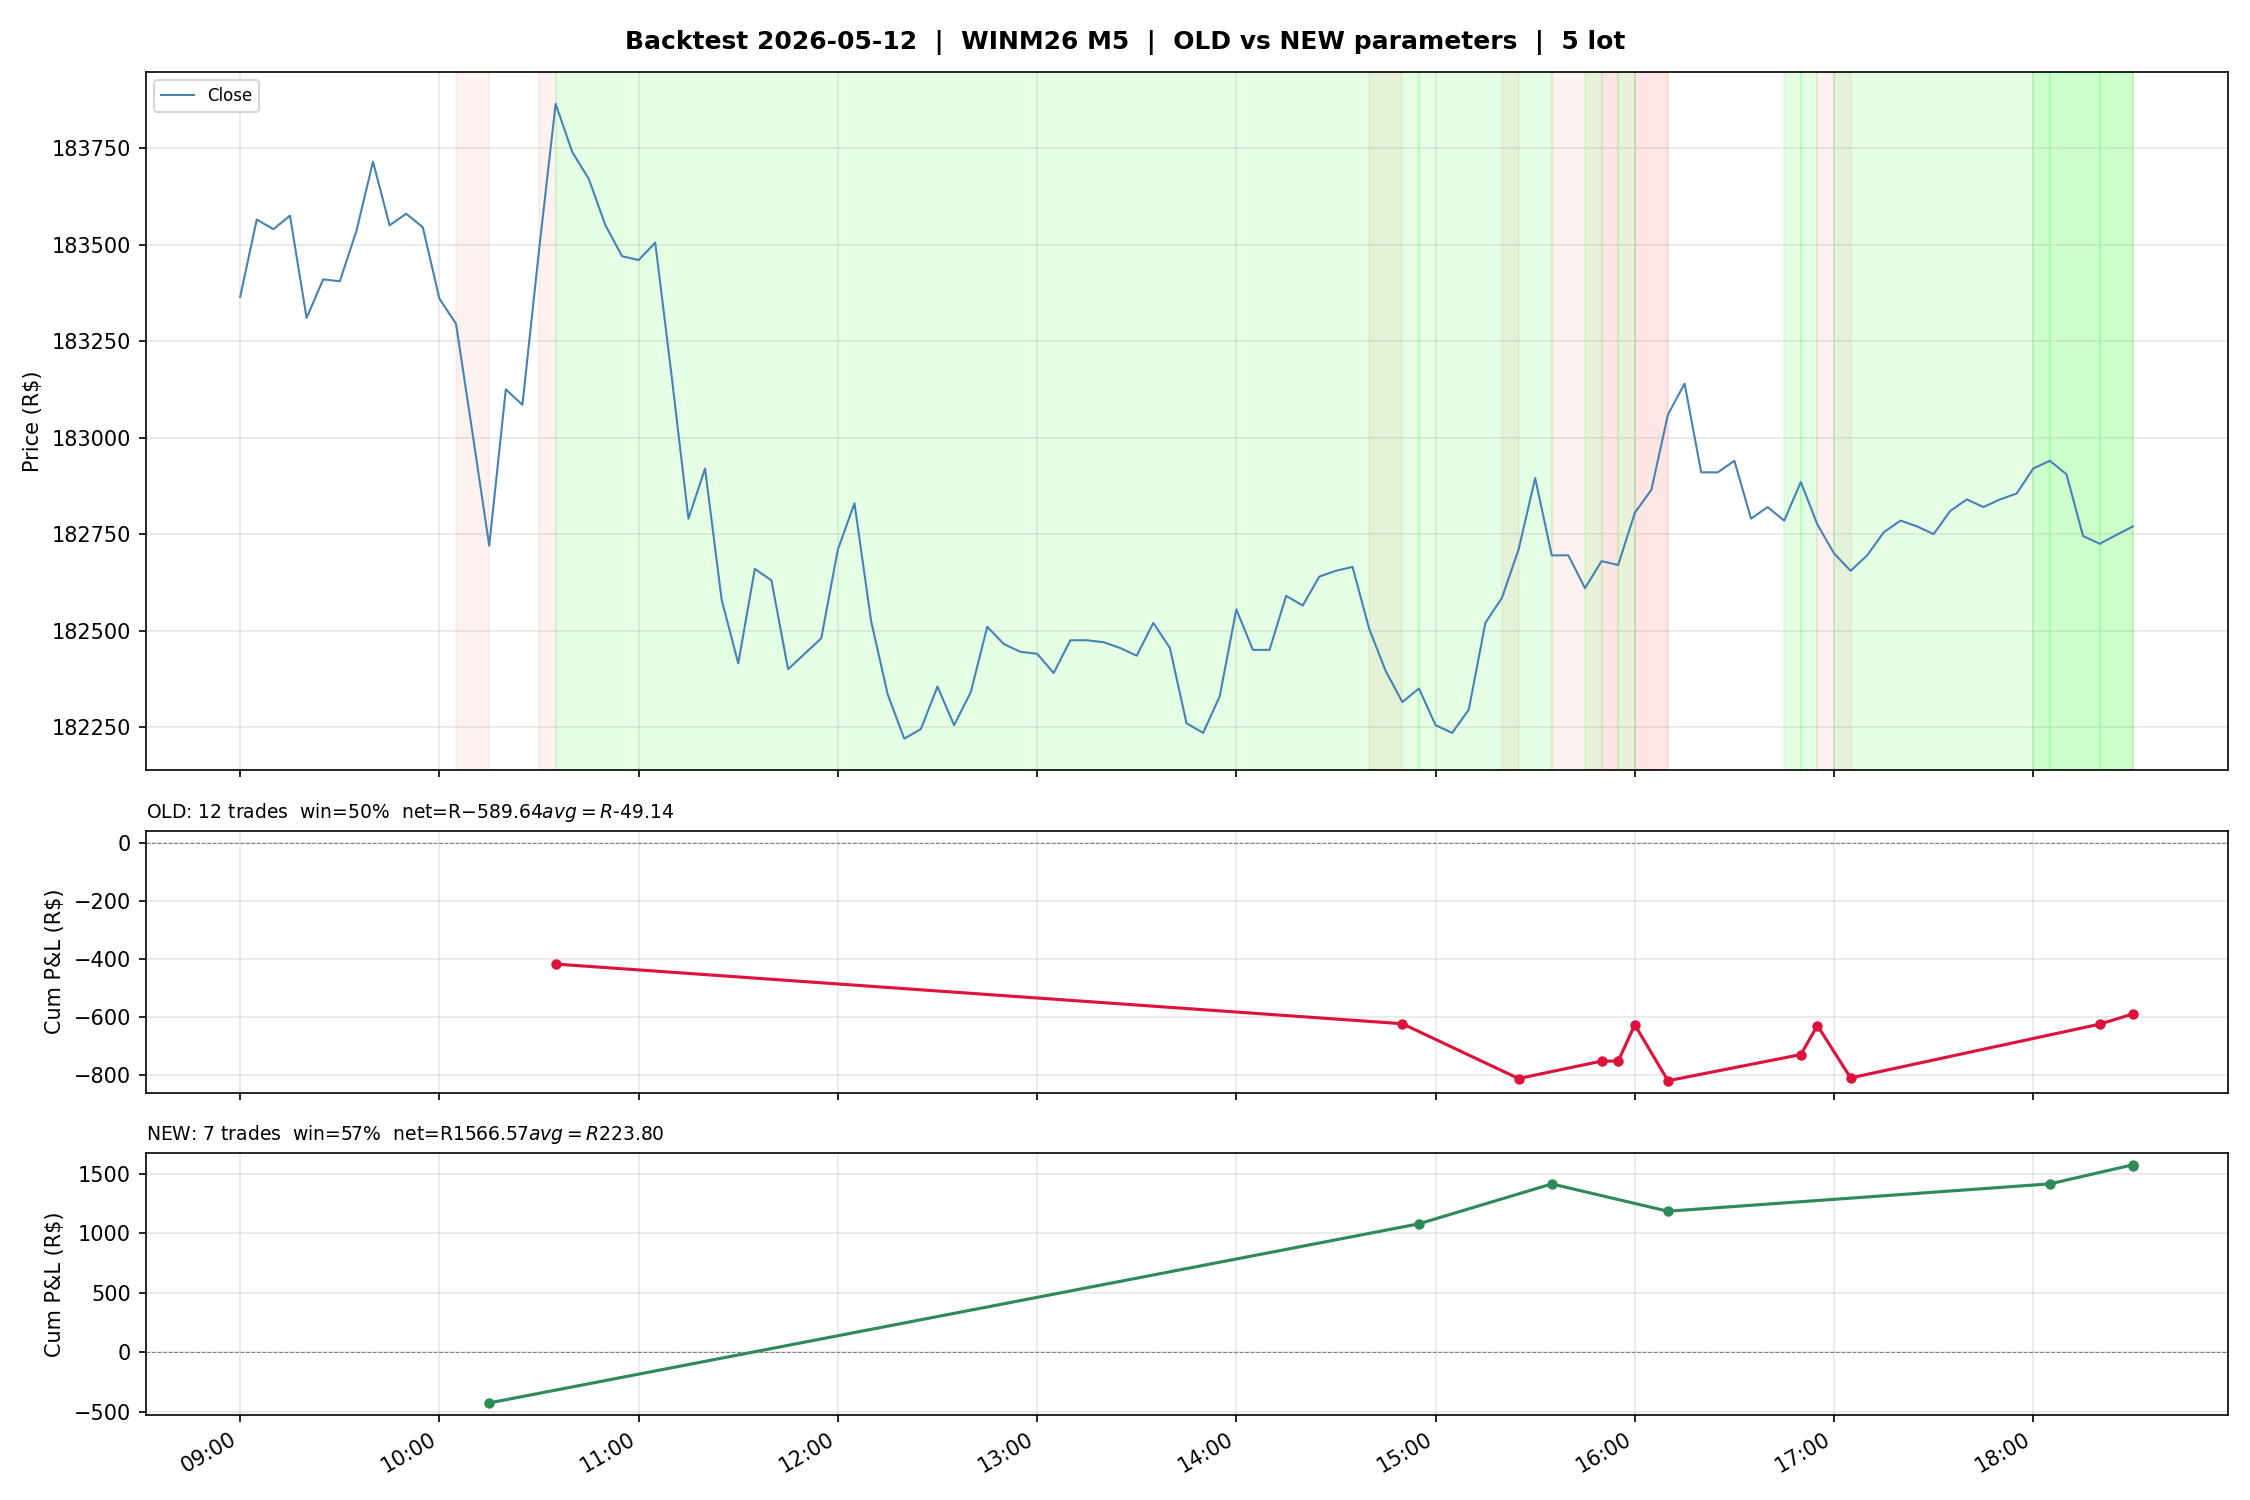
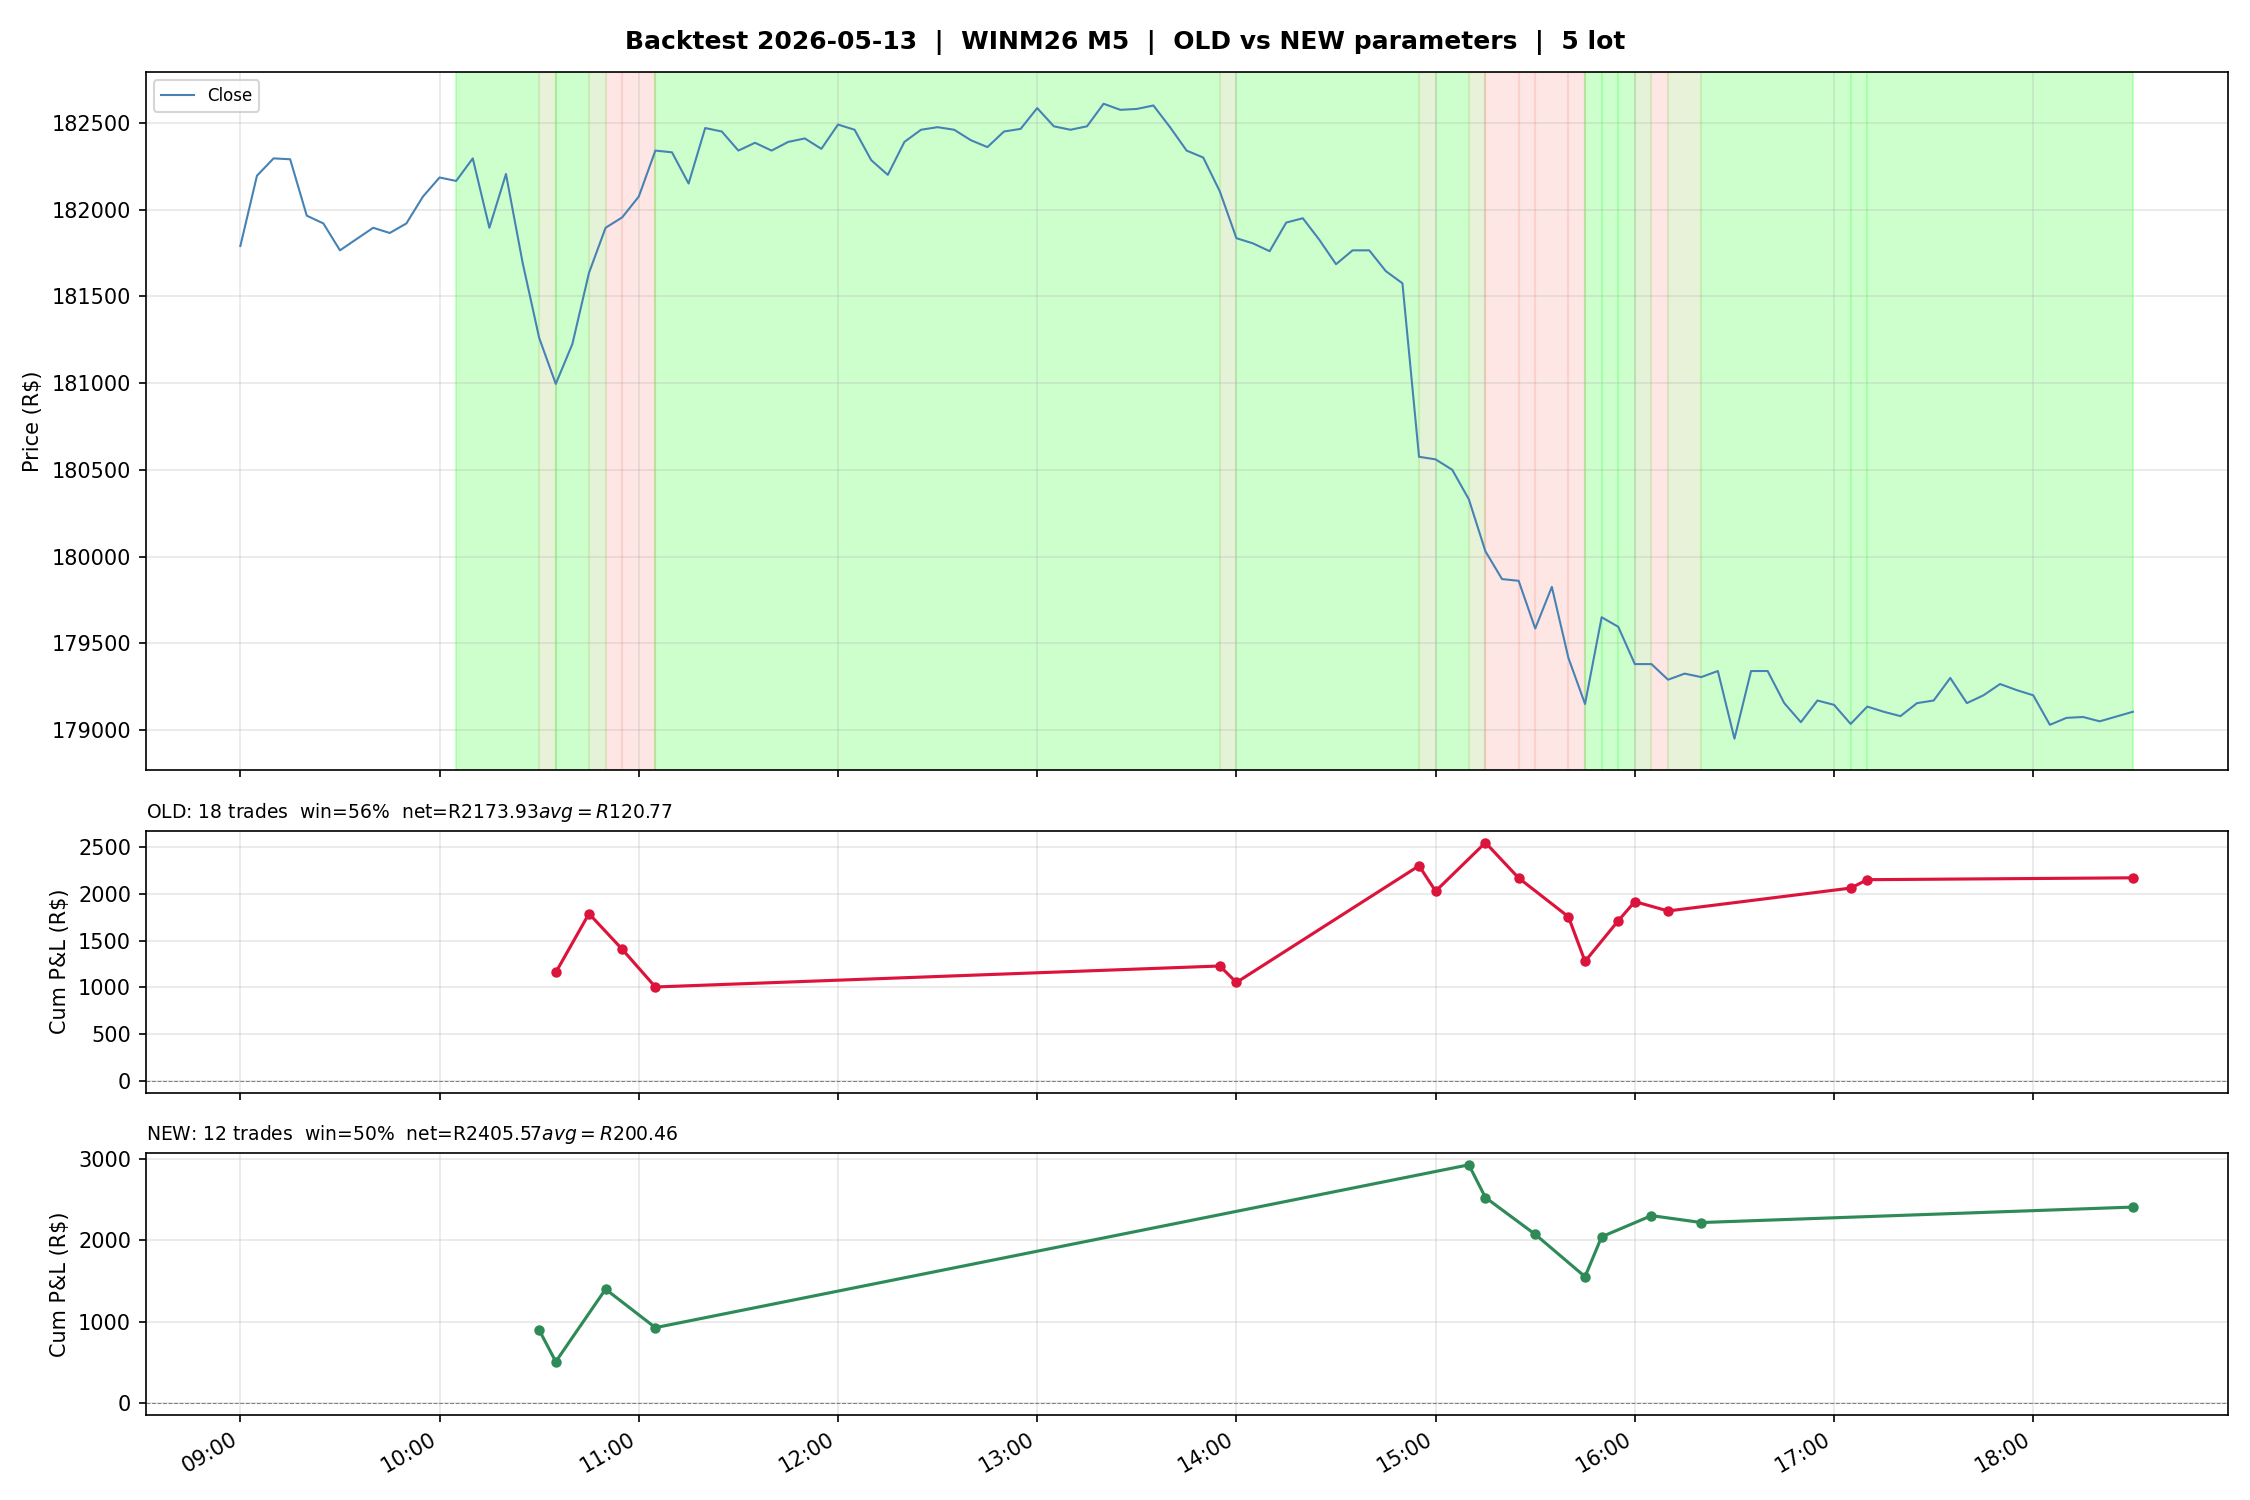
feat: Add diagnostic script for order-triggering parameter comparison

diff --git a/test_signal_status.py b/test_signal_status.py
@@ -1,0 +1,241 @@
+"""
+test_signal_status.py
+─────────────────────
+Prints a diagnostic table comparing every order-triggering parameter
+against its current live value.  Run once; no trades are placed.
+
+Usage:
+    python test_signal_status.py
+"""
+
+from datetime import datetime, timezone, timedelta
+
+import os
+import numpy as np
+import pandas as pd
+import MetaTrader5 as mt5
+from lightgbm import LGBMClassifier
+from sklearn.impute import SimpleImputer
+from sklearn.pipeline import Pipeline
+
+from config import (
+    TARGETS, TIMEFRAME, N_BARS,
+    TB_MAX_BARS, TB_PT_MULT, TB_SL_MULT,
+    PROB_THRESHOLD, N_SPLITS_CV, RECENCY_DECAY,
+    TRADE_ENABLED, TRADE_BOTH_SIDES, TRADE_SESSIONS,
+    RISK_PCT, MAX_SLIPPAGE, MAGIC_NUMBER,
+    TRAIL_ACTIVATE_PCT,
+    GRID_ENABLED, GRID_MAX_LEVELS, GRID_STEP_MULT, GRID_PORTFOLIO_SL_MULT,
+    MIN_MICRO_ROWS,
+)
+from mt5_client import mt5_setup, fetch_bars, append_dom_snapshot, fetch_and_aggregate_ticks
+from features import (
+    _atr, make_features, add_time_features,
+    load_dom_features, load_tick_features, make_htf_features, merge_microstructure,
+)
+from model import (
+    triple_barrier_labels, compute_recency_weights,
+    evaluate_walkforward,
+)
+
+_BRT = timezone(timedelta(hours=-3))
+
+SEP  = "─" * 72
+SEP2 = "═" * 72
+
+def _pass_fail(condition: bool) -> str:
+    return "✓  PASS" if condition else "✗  FAIL"
+
+def _in_session(sessions) -> bool:
+    now = datetime.now(_BRT)
+    hm  = (now.hour, now.minute)
+    for start, end in sessions:
+        if start <= hm < end:
+            return True
+    return False
+
+
+def run_diagnostics(target: dict) -> None:
+    symbol = target["symbol"]
+    slug   = target["slug"]
+
+    print(f"\n{SEP2}")
+    print(f"  SIGNAL DIAGNOSTICS — {symbol}  ({datetime.now(_BRT).strftime('%Y-%m-%d %H:%M:%S')} BRT)")
+    print(SEP2)
+
+    # ── 1. Fetch bars ──────────────────────────────────────────────────────────
+    bars = fetch_bars(symbol, TIMEFRAME, N_BARS)
+    if bars is None:
+        print("  ERROR: could not fetch bars from MT5")
+        return
+    print(f"\n  Bars loaded        : {len(bars)}")
+
+    # ── 2. DOM availability check ──────────────────────────────────────────────
+    from mt5_client import _subscribed_books
+    dom_subscribed = symbol in _subscribed_books
+    dom_snap_live  = mt5.market_book_get(symbol)
+    dom_snap_ok    = dom_snap_live is not None and len(dom_snap_live) > 0
+    print(f"  DOM subscribed     : {dom_subscribed}")
+    print(f"  DOM live snapshot  : {'OK (' + str(len(dom_snap_live)) + ' levels)' if dom_snap_ok else 'NONE — broker may not provide L2 for this symbol'}")
+    if not dom_snap_ok:
+        print("  NOTE: DOM features will be INACTIVE (0 rows). This is normal if the")
+        print("        broker does not publish Level 2 order book for futures (WINM26).")
+
+    # ── 3. Features ────────────────────────────────────────────────────────────
+    append_dom_snapshot(symbol, slug)
+    fetch_and_aggregate_ticks(symbol, slug)
+
+    feats = make_features(bars)
+    feats = add_time_features(feats)
+
+    dom_raw  = load_dom_features(slug)
+    tick_raw = load_tick_features(slug)
+
+    # Pre-merge DOM diagnostics
+    if not dom_raw.empty:
+        dom_bar_count = len(dom_raw)
+        dom_overlap   = len(dom_raw.index.intersection(feats.index))
+        feats_sample  = feats.index[-1]
+        dom_sample    = dom_raw.index[-1] if len(dom_raw) else None
+        print(f"\n  DOM CSV bars       : {dom_bar_count}  (unique M5 bars after groupby)")
+        print(f"  DOM / feats overlap: {dom_overlap} bars")
+        print(f"  feats last bar tz  : {feats_sample}")
+        print(f"  DOM   last bar tz  : {dom_sample}")
+        if dom_overlap == 0:
+            print("  WARNING: no timestamp overlap — timezone or flooring mismatch in DOM CSV")
+
+    if not tick_raw.empty:
+        tick_bar_count = len(tick_raw)
+        tick_overlap   = len(tick_raw.index.intersection(feats.index))
+        print(f"  Tick CSV bars      : {tick_bar_count}  overlap={tick_overlap}")
+
+    feats, n_dom  = merge_microstructure(feats, dom_raw,  prefix="dom")
+    feats, n_tick = merge_microstructure(feats, tick_raw, prefix="tick")
+    htf = make_htf_features(symbol, bars)
+    if not htf.empty:
+        feats = pd.concat([feats, htf], axis=1)
+
+    # ── 3. Labels & alignment ──────────────────────────────────────────────────
+    atr14    = _atr(bars, 14)
+    target_y = triple_barrier_labels(bars, atr14, TB_MAX_BARS, TB_PT_MULT, TB_SL_MULT)
+    aligned  = pd.concat([feats, target_y], axis=1).dropna(subset=["y"])
+    aligned  = aligned.dropna(subset=feats.columns.tolist(),
+                               thresh=int(len(feats.columns) * 0.6))
+    X = aligned.drop(columns=["y"])
+    y = aligned["y"].astype(int)
+
+    # ── 4. Walk-forward metrics ────────────────────────────────────────────────
+    rec_weights = compute_recency_weights(len(aligned), decay=RECENCY_DECAY)
+    metrics     = evaluate_walkforward(X, y, N_SPLITS_CV, embargo=TB_MAX_BARS,
+                                       weights=rec_weights)
+
+    # ── 5. Full-model proba ────────────────────────────────────────────────────
+    model = Pipeline([
+        ("imp", SimpleImputer(strategy="median")),
+        ("gb",  LGBMClassifier(n_estimators=300, max_depth=4, learning_rate=0.05,
+                               class_weight="balanced", random_state=42, verbosity=-1)),
+    ])
+    model.fit(X, y, gb__sample_weight=rec_weights)
+    proba_train = model.predict_proba(X)[:, 1]
+
+    # Score live tail (unlabelled bars)
+    tail_feats = feats[~feats.index.isin(aligned.index)]
+    tail_feats = tail_feats.dropna(thresh=int(len(feats.columns) * 0.6))
+    if len(tail_feats) > 0:
+        tail_proba  = model.predict_proba(tail_feats)[:, 1]
+        latest_proba = float(tail_proba[-1])
+    else:
+        latest_proba = float(proba_train[-1])
+
+    latest_signal = 1 if latest_proba > PROB_THRESHOLD else 0
+    signal_label  = "BUY" if latest_signal == 1 else "SELL/FLAT"
+
+    # ── 6. Derived values ─────────────────────────────────────────────────────
+    precision = metrics["precision"]
+    baseline  = metrics["baseline_rate"]
+    edge      = precision - baseline
+    atr_last  = float(atr14.iloc[-1]) if not np.isnan(float(atr14.iloc[-1])) else float(np.nanmedian(atr14.values))
+    sl_pts    = int(round(atr_last * TB_SL_MULT)) if atr_last > 0 else 0
+
+    tick      = mt5.symbol_info_tick(symbol)
+    account   = mt5.account_info()
+    in_session = _in_session(TRADE_SESSIONS)
+    brt_now   = datetime.now(_BRT).strftime("%H:%M")
+
+    # ── Print table ────────────────────────────────────────────────────────────
+    print(f"\n{'PARAMETER':<35} {'REQUIRED / CONFIG':<22} {'CURRENT VALUE':<18} STATUS")
+    print(SEP)
+
+    # -- Probability threshold
+    req_proba = f"> {PROB_THRESHOLD}"
+    cur_proba = f"{latest_proba:.4f}"
+    print(f"  {'Proba (latest bar)':<33} {req_proba:<22} {cur_proba:<18} {_pass_fail(latest_proba > PROB_THRESHOLD)}")
+
+    # -- Precision floor
+    req_prec = ">= 0.505"
+    cur_prec = f"{precision:.4f}"
+    print(f"  {'Model precision (CV)':<33} {req_prec:<22} {cur_prec:<18} {_pass_fail(precision >= 0.505)}")
+
+    # -- Edge
+    req_edge = ">= 0.02"
+    cur_edge = f"{edge:+.4f}"
+    print(f"  {'Edge (prec - baseline)':<33} {req_edge:<22} {cur_edge:<18} {_pass_fail(edge >= 0.02)}")
+
+    # -- Trade session
+    sessions_str = f"{TRADE_SESSIONS[0][0]}-{TRADE_SESSIONS[-1][1]}"
+    print(f"  {'Trade session (BRT)':<33} {'inside window':<22} {brt_now:<18} {_pass_fail(in_session)}")
+
+    # -- Trade enabled
+    print(f"  {'TRADE_ENABLED':<33} {'True':<22} {str(TRADE_ENABLED):<18} {_pass_fail(TRADE_ENABLED)}")
+
+    print(SEP)
+
+    # ── Signal & order summary ────────────────────────────────────────────────
+    all_gates = (latest_proba > PROB_THRESHOLD and precision >= 0.505
+                 and edge >= 0.02 and in_session and TRADE_ENABLED)
+    print(f"\n  Current signal     : {signal_label}")
+    print(f"  All gates pass     : {_pass_fail(all_gates)}")
+    print(f"  → Order would be   : {'SENT (' + signal_label + ')' if all_gates else 'BLOCKED'}")
+
+    # ── Supporting info ───────────────────────────────────────────────────────
+    print(f"\n{SEP}")
+    print(f"  {'SUPPORTING INFO'}")
+    print(SEP)
+    print(f"  {'ATR(14) last bar':<33} {atr_last:.1f} pts")
+    print(f"  {'SL distance (ATR × SL_MULT)':<33} {sl_pts} pts  (TB_SL_MULT={TB_SL_MULT})")
+    print(f"  {'Profit target mult (TB_PT_MULT)':<33} {TB_PT_MULT}× ATR")
+    print(f"  {'Vertical barrier (TB_MAX_BARS)':<33} {TB_MAX_BARS} bars (~{TB_MAX_BARS * 5} min)")
+    print(f"  {'Model recall (CV)':<33} {metrics['recall']:.4f}")
+    print(f"  {'Baseline buy rate':<33} {baseline:.4f}")
+    from config import dom_path, ticks_path
+    _dom_csv   = dom_path(slug)
+    _tick_csv  = ticks_path(slug)
+    _dom_file_rows  = len(pd.read_csv(_dom_csv))  if os.path.exists(_dom_csv)  else 0
+    _tick_file_rows = len(pd.read_csv(_tick_csv)) if os.path.exists(_tick_csv) else 0
+    _dom_status  = f"{n_dom} merged bars  ({_dom_file_rows} snapshots on disk)"  + ("" if n_dom >= MIN_MICRO_ROWS else f"  ← need {MIN_MICRO_ROWS} bars — run main loop to accumulate")
+    _tick_status = f"{n_tick} merged bars  ({_tick_file_rows} tick-bars on disk)" + ("" if n_tick >= MIN_MICRO_ROWS else f"  ← need {MIN_MICRO_ROWS} bars — run main loop to accumulate")
+    print(f"  {'DOM microstructure':<33} {_dom_status}")
+    print(f"  {'Tick microstructure':<33} {_tick_status}")
+    if tick:
+        spread = round(tick.ask - tick.bid)
+        print(f"  {'Current bid/ask':<33} {tick.bid} / {tick.ask}  (spread={spread}p)")
+    if account:
+        print(f"  {'Account balance':<33} {account.balance:.2f} {account.currency}")
+        print(f"  {'Risk per trade (RISK_PCT)':<33} {RISK_PCT}%  ≈ {account.balance * RISK_PCT / 100:.2f} {account.currency}")
+    print(f"  {'MAX_SLIPPAGE':<33} {MAX_SLIPPAGE} pts")
+    print(f"  {'TRADE_BOTH_SIDES':<33} {TRADE_BOTH_SIDES}")
+    print(f"  {'GRID_ENABLED':<33} {GRID_ENABLED}  (max {GRID_MAX_LEVELS} levels, step {GRID_STEP_MULT}×SL)")
+    print(f"  {'TRAIL_ACTIVATE_PCT':<33} {TRAIL_ACTIVATE_PCT * 100:.0f}% of SL distance")
+    print(f"  {'MAGIC_NUMBER':<33} {MAGIC_NUMBER}")
+    print(SEP)
+
+
+if __name__ == "__main__":
+    mt5_setup()
+    for t in TARGETS:
+        try:
+            run_diagnostics(t)
+        except Exception as e:
+            print(f"[{t['symbol']}] ERROR: {e}")
+            raise
+    mt5.shutdown()

diff --git a/mt5_client.py b/mt5_client.py
@@ -22,6 +22,9 @@ _dom_thread_stop:   threading.Event            = threading.Event()
 # Tracks which DOM CSV paths have already been schema-validated this session
 _dom_schema_validated: set = set()
 
+# Symbols for which the broker does not provide tick history (detected at startup)
+_no_tick_symbols: set = set()
+
 
 def _ensure_dom_schema(path: str, snap: dict) -> None:
     """Delete DOM CSV if its column schema no longer matches the current snapshot keys.
@@ -63,7 +66,34 @@ def mt5_setup() -> None:
         else:
             print(f"Warning: market_book_add({s}) failed — DOM features unavailable for it")
     print(f"MT5 connected. Targets: {[t['symbol'] for t in TARGETS]}")
+    _check_broker_capabilities()
     _start_dom_thread()
+
+
+def _check_broker_capabilities() -> None:
+    """One-time startup check: log which data sources are available per symbol."""
+    import time as _time
+    now = int(_time.time())
+    print("── Broker capability check ──────────────────────────────")
+    for t in TARGETS:
+        s    = t['symbol']
+        # DOM
+        book = mt5.market_book_get(s)
+        dom_ok = book is not None and len(book) > 0
+        # Ticks (last 10 minutes)
+        ticks = mt5.copy_ticks_range(
+            s,
+            pd.to_datetime(now - 600, unit='s'),
+            pd.to_datetime(now,       unit='s'),
+            mt5.COPY_TICKS_TRADE,
+        )
+        tick_ok = ticks is not None and len(ticks) > 0
+        print(f"  {s}:  DOM={'YES (' + str(len(book)) + ' levels)' if dom_ok else 'NO — L2 not provided by broker'}  |  "
+              f"Ticks={'YES (' + str(len(ticks)) + ')' if tick_ok else 'NO — tick history not provided by broker'}")
+        if not tick_ok:
+            # Mark symbol so fetch_and_aggregate_ticks skips it silently
+            _no_tick_symbols.add(s)
+    print("─────────────────────────────────────────────────────────")
 
 
 def mt5_teardown() -> None:
@@ -228,6 +258,8 @@ _last_tick_ts: dict = {}  # per-symbol incremental cursor
 
 
 def fetch_and_aggregate_ticks(symbol: str, slug: str) -> int:
+    if symbol in _no_tick_symbols:
+        return 0
     now   = int(time.time())
     start = _last_tick_ts.get(symbol, 0) or (now - 3600)
     ticks = mt5.copy_ticks_range(

diff --git a/backtest_today.py b/backtest_today.py
@@ -18,6 +18,7 @@ Run:
     python backtest_today.py
 """
 
+import os
 import sys
 from collections import deque
 
@@ -114,10 +115,9 @@ def train_and_score(bars_train: pd.DataFrame, bars_test: pd.DataFrame, p: dict):
 
     if p["use_quality_gate"] and (metrics["precision"] < 0.505 or edge < 0.02):
         print(
-            f"    Quality gate REJECTED  "
-            f"prec={metrics['precision']:.3f}  edge={edge:+.3f} → no trades"
+            f"    Quality gate would REJECT  "
+            f"prec={metrics['precision']:.3f}  edge={edge:+.3f}  (continuing for backtest visibility)"
         )
-        return None, metrics
 
     model = Pipeline(
         [
@@ -230,13 +230,14 @@ def simulate_pnl(bars_test: pd.DataFrame, signal_series: pd.Series, sl_mult: flo
             prev_sig = sig
             continue
 
-        if sig != prev_sig and prev_sig != -1:
-            # Signal flip
-            if in_trade and not np.isnan(c):
-                _close_trade(ts, c, "SIGNAL")
-                in_trade = False
+        # Direction flip while in a trade → close it
+        if in_trade and sig != prev_sig and prev_sig != -1 and not np.isnan(c):
+            _close_trade(ts, c, "SIGNAL")
+            in_trade = False
 
-            # Open new position
+        # Open a trade whenever we have a confirmed signal and are flat
+        # (retry every bar so NaN ATR at warm-up doesn't permanently block entry)
+        if not in_trade:
             atr_val = float(atr_test.get(ts, np.nan))
             if not np.isnan(c) and not np.isnan(atr_val) and atr_val > 0:
                 entry_price = c
@@ -430,7 +431,7 @@ def main():
     axes[-1].xaxis.set_major_formatter(mdates.DateFormatter("%H:%M"))
     plt.setp(axes[-1].xaxis.get_majorticklabels(), rotation=30, ha="right")
     plt.tight_layout()
-    out_path = "backtest_today.png"
+    out_path = os.path.join(os.path.dirname(os.path.abspath(__file__)), "backtest_today.png")
     plt.savefig(out_path, dpi=150)
     print(f"\n  Chart saved → {out_path}")
     plt.show()